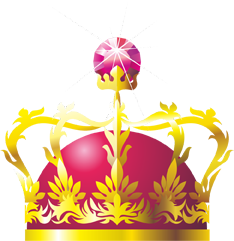
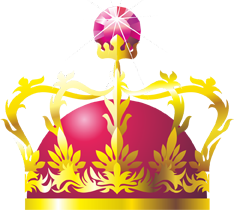
edit crown img

diff --git a/app/pages/seller/pages/sellerPage/sellerPage.html b/app/pages/seller/pages/sellerPage/sellerPage.html
@@ -20,15 +20,18 @@
                             <span ng-if="owner_balance.is_agent==0 && owner_balance.is_partner">经销商</span>
                             <span ng-if="owner_balance.is_agent==0 && owner_balance.is_partner==0 && owner_balance.is_seller">经销商</span>
                             <!--<span class="five-star-parent" ng-if="owner_balance.is_agent==0 && owner_balance.is_partner">-->
-                            <!--<span class="five-star-parent" ng-if="owner_balance.is_seller && owner_balance.partner_level.level < 6">-->
-                                <!--<five-star rank-src="lib/custom/img/yellow_star.png" src="lib/custom/img/white_star.png"-->
-                                           <!--style="margin-top:1px;"-->
-                                           <!--rank="{{owner_balance.partner_level.level}}"></five-star>-->
-                                <!--&lt;!&ndash;<level-progress style="margin-top:21px; margin-left: 2px;"-->
-                                                <!--value="{{owner_balance.level_percent}}"></level-progress>&ndash;&gt;-->
-                            <!--</span>-->
+
+                            <!--<span class="five-star-parent" ng-if="owner_balance.is_seller && owner_balance.partner_level.level < 6">
+                                <five-star rank-src="lib/custom/img/yellow_star.png" src="lib/custom/img/white_star.png"
+                                           style="margin-top:1px;"
+                                           rank="{{owner_balance.partner_level.level}}"></five-star>
+                                &lt;!&ndash;<level-progress style="margin-top:21px; margin-left: 2px;"
+                                                value="{{owner_balance.level_percent}}"></level-progress>&ndash;&gt;
+                            </span>-->
+
                             <!--<span ng-if="owner_balance.is_agent==0 && owner_balance.is_partner" style="margin-top:15px;font-size:9px">{{owner_balance.level_percent}}%</span>-->
 
+                            <!--<span class="crown-parent" ng-if="owner_balance.is_seller && owner_balance.partner_level.level >= 6">-->
                             <span class="crown-parent" ng-if="owner_balance.is_seller">
                                   <img src="img/sellerPage/crown.png" class="agent_crown_img">
                             </span>

diff --git a/app/css/sellerPage/sellerPage.css b/app/css/sellerPage/sellerPage.css
@@ -362,10 +362,10 @@
     margin-bottom: 1px;
 }
 #sellerPage  .agent_crown_img{
-    width: 30px;
-    height: 21px;
+    width: 32px;
+    height: auto;
     position: absolute;
-    margin-bottom: 2px;
+    bottom: -20px;
 }
 
 .weui_grid:active {

diff --git a/app/css/my/my.css b/app/css/my/my.css
@@ -82,7 +82,7 @@
     line-height: 1.6;
     color: #fff;
     position: relative;
-    margin-top: 5px;
+    margin-top: 12px;
 }
 
 .user-detail .user-lv-text span{
